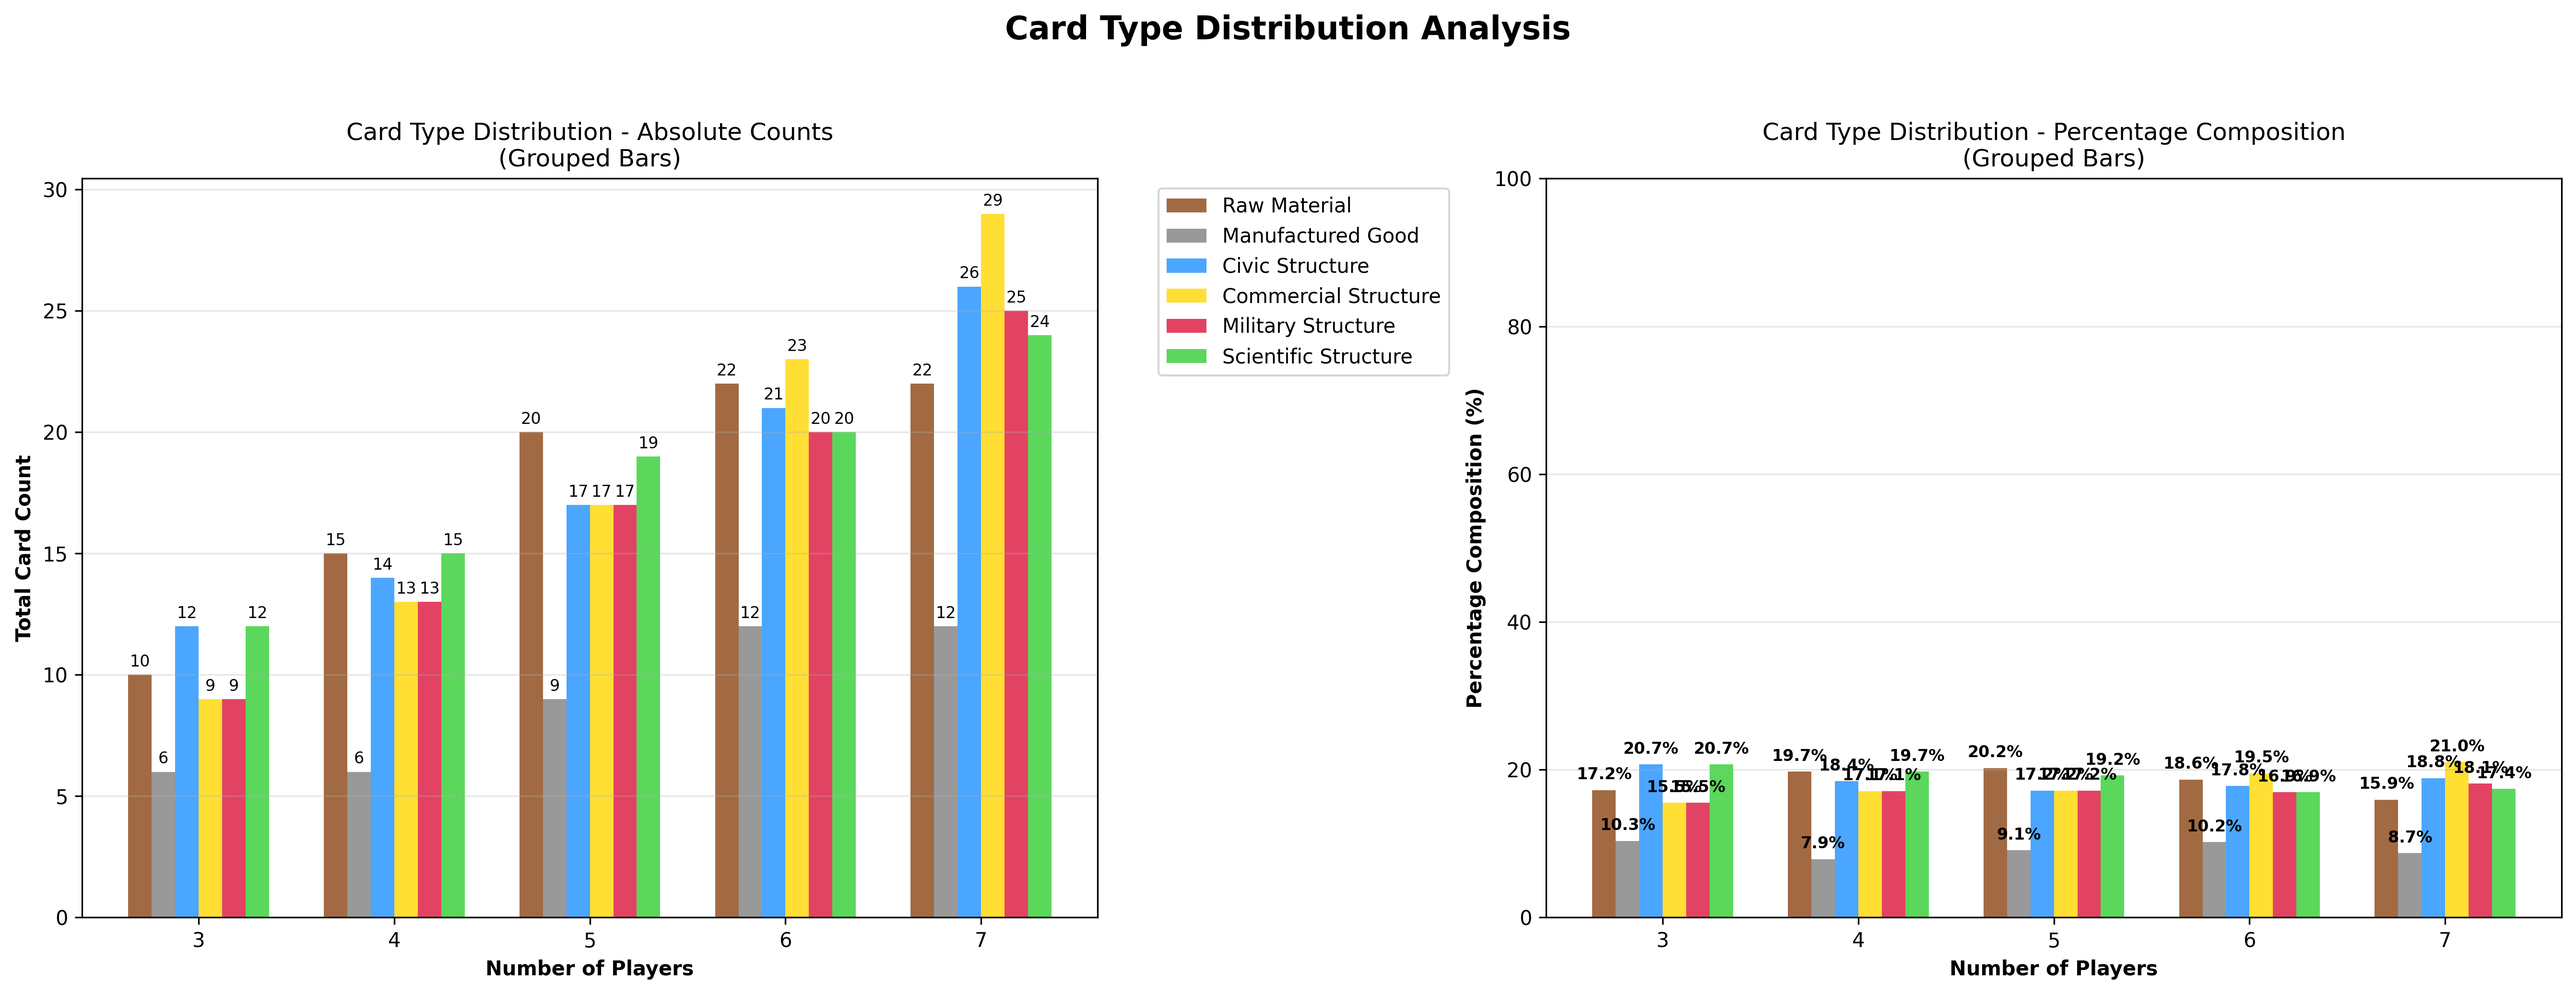
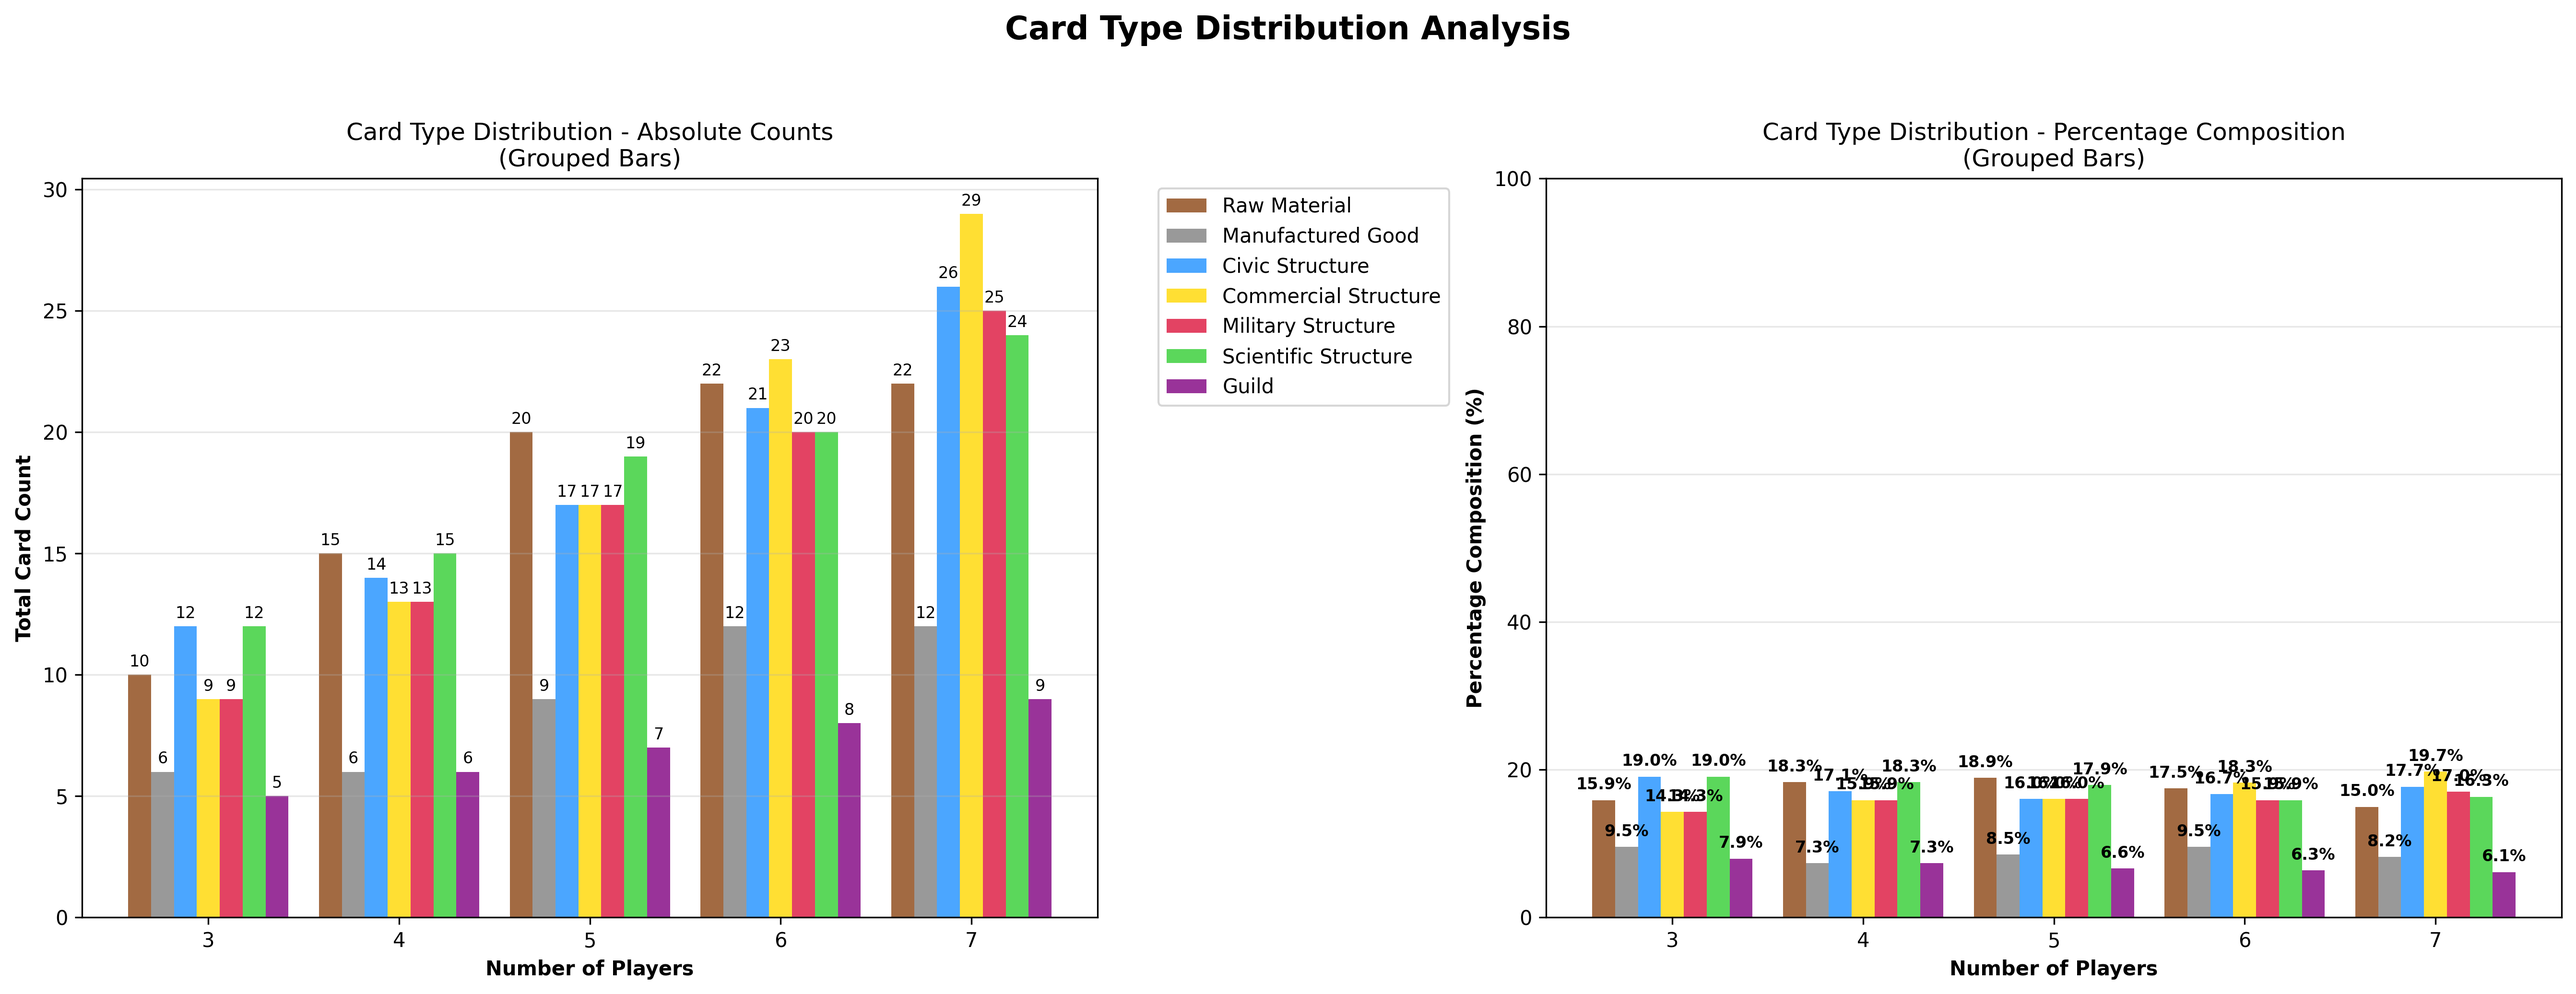
complete card balance stats

Changed region(s): [[0.0933, 0.2161, 0.4976, 0.9262], [0.5909, 0.741, 0.9952, 0.9262], [0.0622, 0.6792, 0.0933, 0.7101]]

diff --git a/src/stats/card_balance.py b/src/stats/card_balance.py
@@ -15,7 +15,8 @@ def collect_card_type_data():
         Type.CIVIC_STRUCTURE: [],
         Type.COMMERCIAL_STRUCTURE: [],
         Type.MILITARY_STRUCTURE: [],
-        Type.SCIENTIFIC_STRUCTURE: []
+        Type.SCIENTIFIC_STRUCTURE: [],
+        Type.GUILD: []
     }
 
     total_cards_per_player = []
@@ -30,7 +31,13 @@ def collect_card_type_data():
             if c_type in count:
                 count[c_type] += 1
 
-        total_cards = len(cards)
+        # Add guild cards (number of players + 2)
+        guild_count = player_number + 2
+        count[Type.GUILD] += guild_count
+
+        # Total cards includes guilds
+        total_cards = len(cards) + guild_count
+
         # Cards per player (on average) for this player count
         total_cards_per_player.append(total_cards / player_number if player_number > 0 else 0.0)
 
@@ -60,6 +67,7 @@ default_map = {
     Type.COMMERCIAL_STRUCTURE: '#FFD700', # Yellow
     Type.MILITARY_STRUCTURE: '#DC143C',   # Red
     Type.SCIENTIFIC_STRUCTURE: '#32CD32', # Green
+    Type.GUILD: '#800080' # Purple
 }
 cmap = plt.get_cmap('tab10')
 

diff --git a/doc/results.md b/doc/results.md
@@ -162,65 +162,69 @@ This was explored in `card_balance.py`
 ![card distribution](./../src/stats/assets/card_balance/card_availability.png)
 ![card distribution average](./../src/stats/assets/card_balance/average_card_distribution.png)
 
-This shows that an average distribution across all games for every card type is for every city/player to have 3/4 of every card type, with the exception of manufactured goods card, which would be present 1/2 per city/player.
-
+This shows that an average distribution across all games for every card type is for every city/player to have 3/4 of every card type, with the exception of manufactured goods and guild cards, which would be present 1/2 per city/player.
 
 ### Card Type Distribution Summary
 
 3 players:
-  Total cards: 58
-  Cards per player: 19.33
+  Total cards: 63
+  Cards per player: 21.00
   Card Type Breakdown:
-    Raw Material: 10 (17.2%)
-    Manufactured Good: 6 (10.3%)
-    Civic Structure: 12 (20.7%)
-    Commercial Structure: 9 (15.5%)
-    Military Structure: 9 (15.5%)
-    Scientific Structure: 12 (20.7%)
+    Raw Material: 10 (15.9%)
+    Manufactured Good: 6 (9.5%)
+    Civic Structure: 12 (19.0%)
+    Commercial Structure: 9 (14.3%)
+    Military Structure: 9 (14.3%)
+    Scientific Structure: 12 (19.0%)
+    Guild: 5 (7.9%)
 
 4 players:
-  Total cards: 76
-  Cards per player: 19.00
+  Total cards: 82
+  Cards per player: 20.50
   Card Type Breakdown:
-    Raw Material: 15 (19.7%)
-    Manufactured Good: 6 (7.9%)
-    Civic Structure: 14 (18.4%)
-    Commercial Structure: 13 (17.1%)
-    Military Structure: 13 (17.1%)
-    Scientific Structure: 15 (19.7%)
+    Raw Material: 15 (18.3%)
+    Manufactured Good: 6 (7.3%)
+    Civic Structure: 14 (17.1%)
+    Commercial Structure: 13 (15.9%)
+    Military Structure: 13 (15.9%)
+    Scientific Structure: 15 (18.3%)
+    Guild: 6 (7.3%)
 
 5 players:
-  Total cards: 99
-  Cards per player: 19.80
+  Total cards: 106
+  Cards per player: 21.20
   Card Type Breakdown:
-    Raw Material: 20 (20.2%)
-    Manufactured Good: 9 (9.1%)
-    Civic Structure: 17 (17.2%)
-    Commercial Structure: 17 (17.2%)
-    Military Structure: 17 (17.2%)
-    Scientific Structure: 19 (19.2%)
+    Raw Material: 20 (18.9%)
+    Manufactured Good: 9 (8.5%)
+    Civic Structure: 17 (16.0%)
+    Commercial Structure: 17 (16.0%)
+    Military Structure: 17 (16.0%)
+    Scientific Structure: 19 (17.9%)
+    Guild: 7 (6.6%)
 
 6 players:
-  Total cards: 118
-  Cards per player: 19.67
+  Total cards: 126
+  Cards per player: 21.00
   Card Type Breakdown:
-    Raw Material: 22 (18.6%)
-    Manufactured Good: 12 (10.2%)
-    Civic Structure: 21 (17.8%)
-    Commercial Structure: 23 (19.5%)
-    Military Structure: 20 (16.9%)
-    Scientific Structure: 20 (16.9%)
+    Raw Material: 22 (17.5%)
+    Manufactured Good: 12 (9.5%)
+    Civic Structure: 21 (16.7%)
+    Commercial Structure: 23 (18.3%)
+    Military Structure: 20 (15.9%)
+    Scientific Structure: 20 (15.9%)
+    Guild: 8 (6.3%)
 
 7 players:
-  Total cards: 138
-  Cards per player: 19.71
+  Total cards: 147
+  Cards per player: 21.00
   Card Type Breakdown:
-    Raw Material: 22 (15.9%)
-    Manufactured Good: 12 (8.7%)
-    Civic Structure: 26 (18.8%)
-    Commercial Structure: 29 (21.0%)
-    Military Structure: 25 (18.1%)
-    Scientific Structure: 24 (17.4%)
+    Raw Material: 22 (15.0%)
+    Manufactured Good: 12 (8.2%)
+    Civic Structure: 26 (17.7%)
+    Commercial Structure: 29 (19.7%)
+    Military Structure: 25 (17.0%)
+    Scientific Structure: 24 (16.3%)
+    Guild: 9 (6.1%)
 
 #### Average Card Distribution per Player (Across All Player Counts)
   Scientific Structure: 3.66 cards per player
@@ -229,7 +233,8 @@ This shows that an average distribution across all games for every card type is 
   Commercial Structure: 3.53 cards per player
   Military Structure: 3.31 cards per player
   Manufactured Good: 1.80 cards per player
-  Total average cards per player (sum over types): 19.50
+  Guild: 1.44 cards per player
+  Total average cards per player (sum over types): 20.94
 
 ## Card cost
 
@@ -304,3 +309,7 @@ This was explored in `card_cost.py`
 - Era 2 → Era 3: +158.0% increase
 
 These results prove that the game is pretty well built as most value distributions have very low variance, too low to be accidental.
+
+## Card Type Point Cost
+
+All the statistics gathered till now will enable us to evaluate the Point production per Resource Point for every card type
